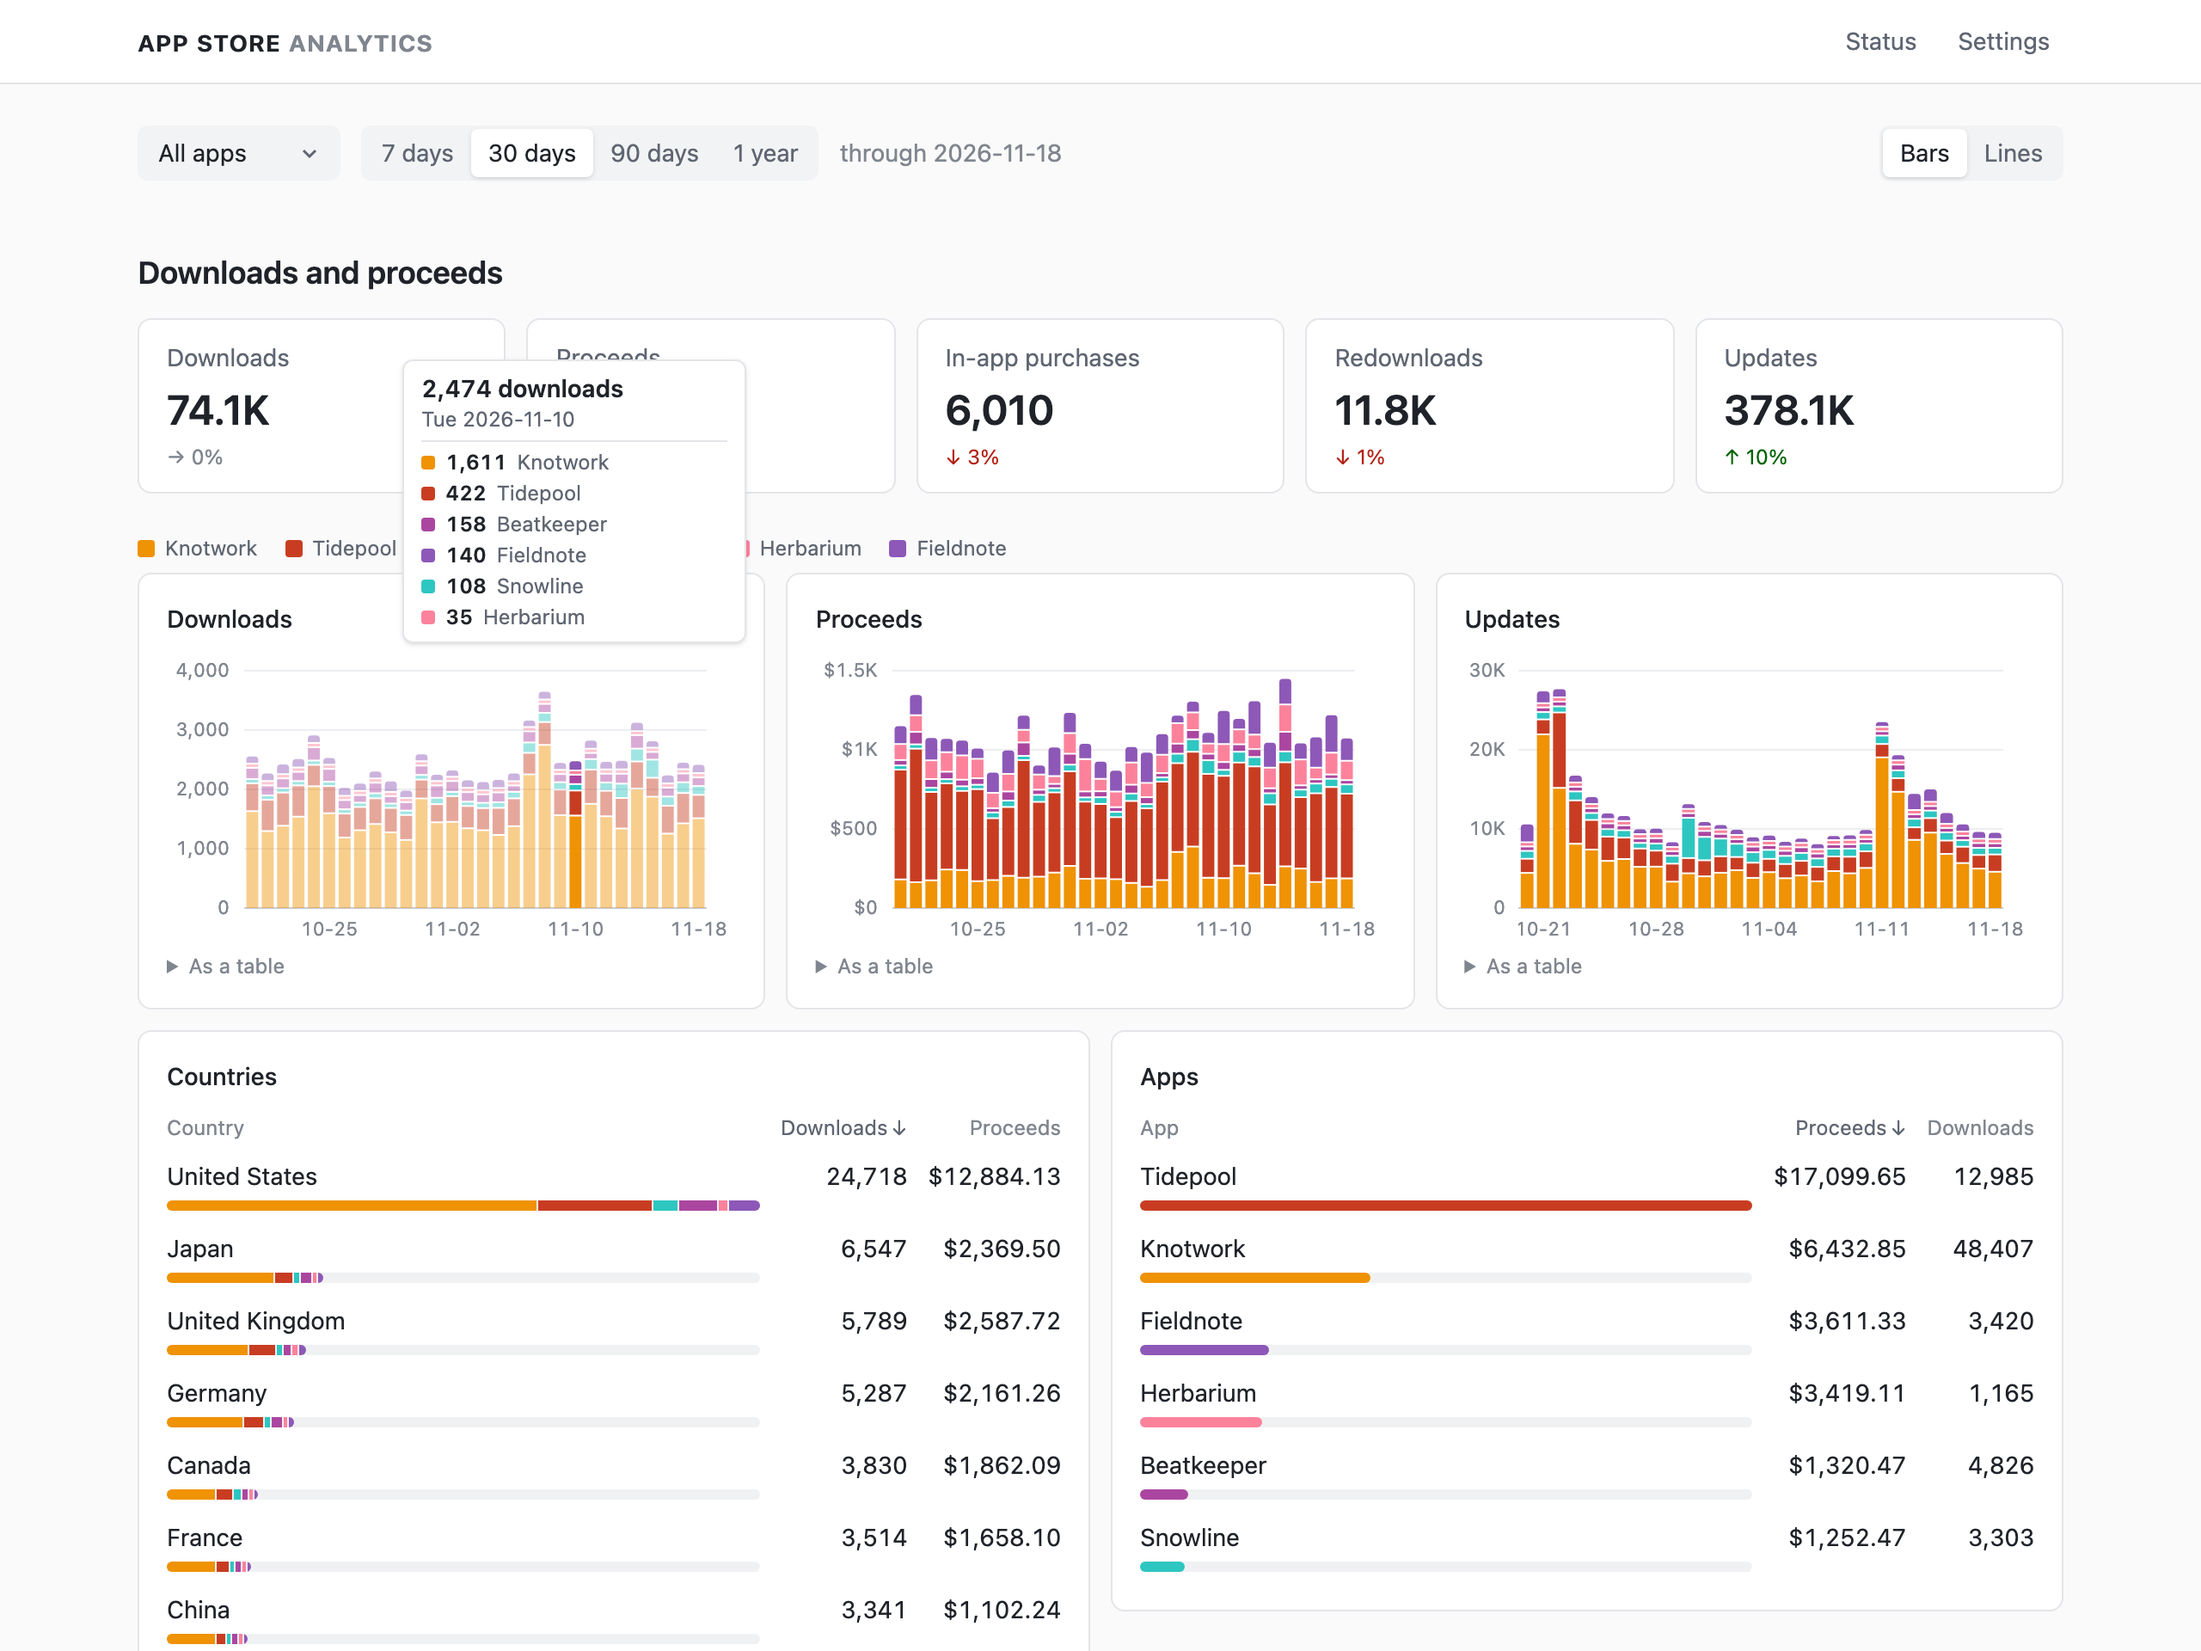
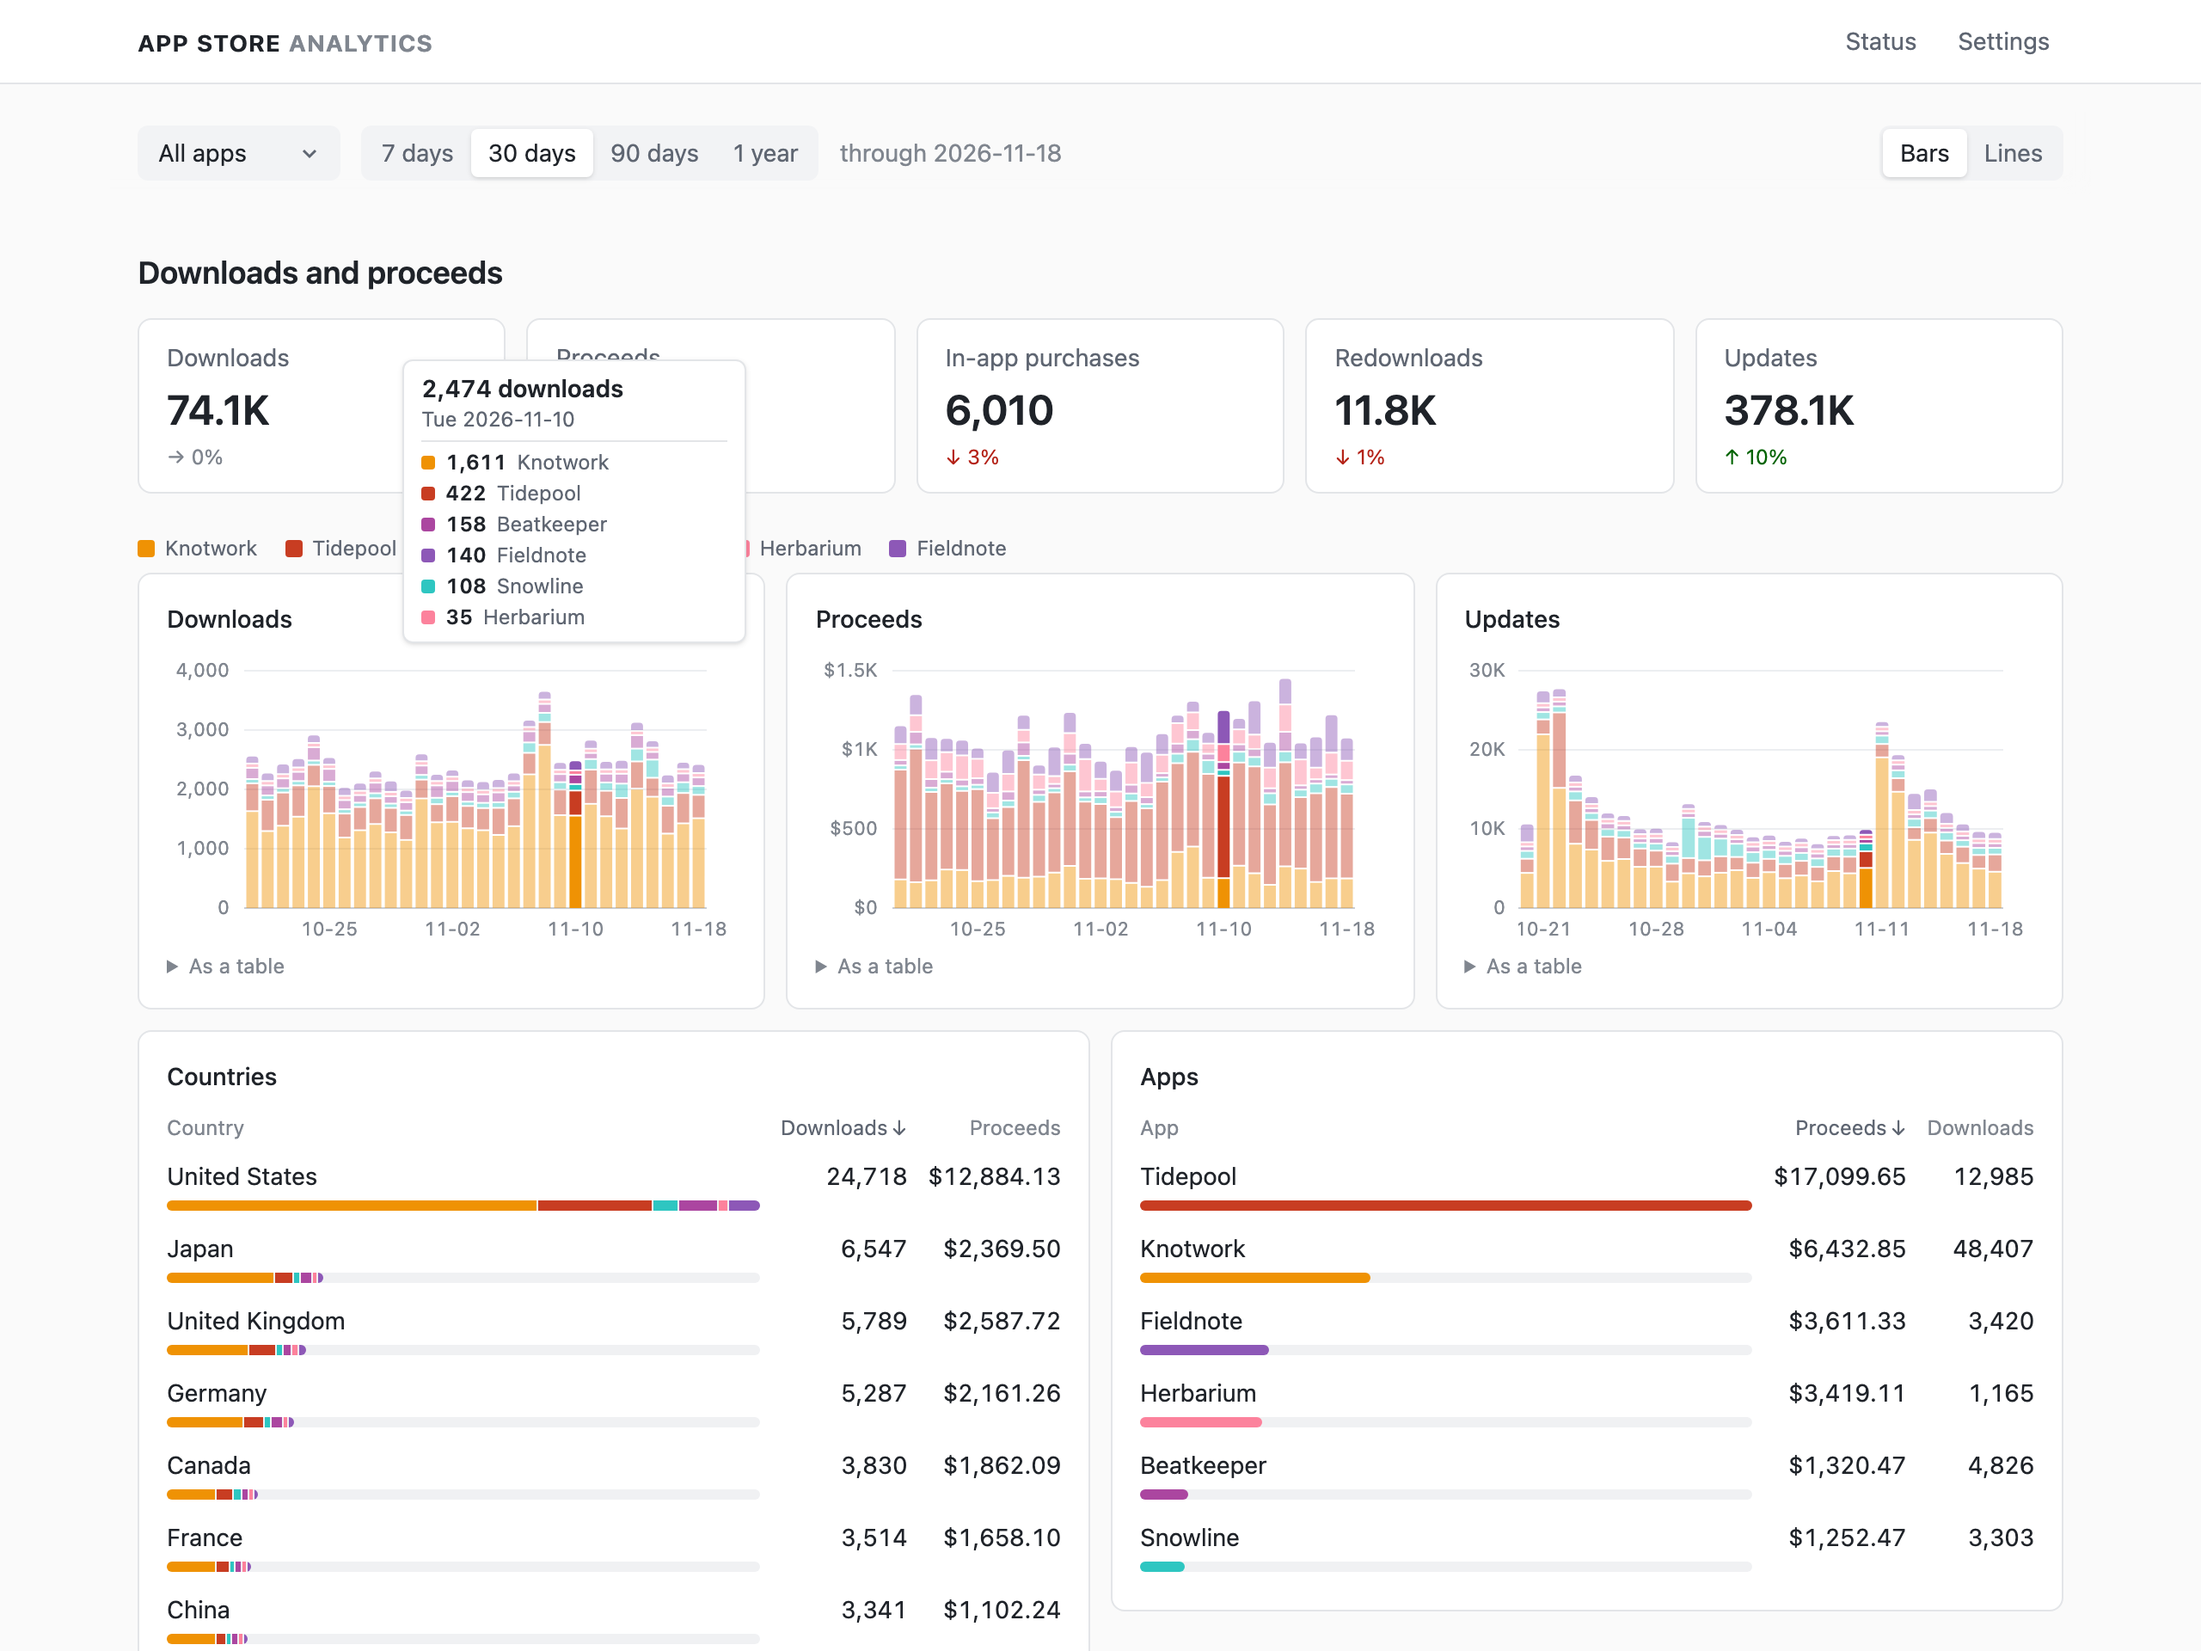
The day picked on one chart is lit on every chart of the page, the readout staying where it was picked

Changed region(s): [[0.4062, 0.4062, 0.625, 0.5625], [0.6875, 0.4062, 0.9062, 0.5625]]

diff --git a/web/src/charts/TimeGraph.tsx b/web/src/charts/TimeGraph.tsx
@@ -21,6 +21,9 @@ export type Standing = { latest: string; slots: number; back: number };
  * a tap or a key.
  *
  * And where they stand: scrolling one back through the days scrolls the rest to the same days.
+ *
+ * And the day picked: the others light the same day, without a readout of their own, so a day is
+ * read across the page at once.
  */
 type TimeGraph = {
   layer: HTMLElement | null;
@@ -38,6 +41,16 @@ type TimeGraph = {
   standing: (latest: string, slots: number) => number | null;
   /** Goes where the others are scrolled to, until the function it returns is called. */
   follow: (chart: symbol, go: (at: Standing) => void) => () => void;
+  /**
+   * The day a chart picked, or none. A chart that had none picked letting go says nothing: the
+   * day is the last chart's to pick one, which the first lets go as it takes the readout.
+   */
+  light: (chart: symbol, day: string | null) => void;
+  /**
+   * Hears the day another chart picked, or none, until the function it returns is called: told
+   * at once of one picked already.
+   */
+  lit: (chart: symbol, hear: (day: string | null) => void) => () => void;
 };
 
 const TimeGraphContext = createContext<TimeGraph | null>(null);
@@ -49,6 +62,8 @@ export function TimeGraphProvider({ children }: { children: ReactNode }) {
   const followers = useRef(new Map<symbol, (at: Standing) => void>());
   const stood = useRef<{ chart: symbol; at: Standing } | null>(null);
   const frame = useRef(0);
+  const lighting = useRef<{ chart: symbol; day: string } | null>(null);
+  const hearers = useRef(new Map<symbol, (day: string | null) => void>());
   const graph = useMemo<TimeGraph>(
     () => ({
       layer,
@@ -83,6 +98,28 @@ export function TimeGraphProvider({ children }: { children: ReactNode }) {
         followers.current.set(chart, go);
         return () => {
           followers.current.delete(chart);
+        };
+      },
+      light(chart, day) {
+        const now = lighting.current;
+        if (day === null) {
+          if (now?.chart !== chart) return;
+          lighting.current = null;
+        } else {
+          if (now?.chart === chart && now.day === day) return;
+          lighting.current = { chart, day };
+        }
+        // The chart that picked it has its own readout of it.
+        for (const [other, hear] of hearers.current) {
+          hear(other === chart ? null : day);
+        }
+      },
+      lit(chart, hear) {
+        hearers.current.set(chart, hear);
+        const now = lighting.current;
+        if (now && now.chart !== chart) hear(now.day);
+        return () => {
+          hearers.current.delete(chart);
         };
       },
     }),

diff --git a/web/src/charts/TimeChart.tsx b/web/src/charts/TimeChart.tsx
@@ -348,6 +348,17 @@ export function TimeChart({
     else graph.release(self);
   }, [graph, picked, self]);
   useEffect(() => () => graph.release(self), [graph, self]);
+
+  // The day picked here is lit on the page's other charts, and the day picked on another is lit
+  // here: the same day dims the rest everywhere, with the readout only where it was picked.
+  const [echo, setEcho] = useState<string | null>(null);
+  useEffect(() => graph.lit(self, setEcho), [graph, self]);
+  const pickedDay = at === null ? null : days[at]!;
+  useEffect(() => graph.light(self, pickedDay), [graph, self, pickedDay]);
+  useEffect(() => () => graph.light(self, null), [graph, self]);
+  const echoed = echo === null ? -1 : days.indexOf(echo);
+  const lit = at ?? (echoed < 0 ? null : echoed);
+
   const tip = useRef<HTMLDivElement>(null);
   const [place, setPlace] = useState<{ left: number; top: number } | null>(
     null,
@@ -489,7 +500,7 @@ export function TimeChart({
                   <g
                     key={days[i]}
                     className="transition-opacity"
-                    opacity={at === null || at === i ? 1 : 0.45}
+                    opacity={lit === null || lit === i ? 1 : 0.45}
                   >
                     {stack(drawn, i, y).map((part) => (
                       <path
@@ -502,10 +513,10 @@ export function TimeChart({
                 ))
               ) : (
                 <>
-                  {at !== null ? (
+                  {lit !== null ? (
                     <line
-                      x1={x(at)}
-                      x2={x(at)}
+                      x1={x(lit)}
+                      x2={x(lit)}
                       y1={top}
                       y2={top + plotH}
                       className="stroke-axis"
@@ -524,13 +535,13 @@ export function TimeChart({
                       style={{ stroke: s.color }}
                     />
                   ))}
-                  {at !== null
+                  {lit !== null
                     ? drawn.map((s) =>
-                        s.values[at] === undefined ? null : (
+                        s.values[lit] === undefined ? null : (
                           <circle
                             key={s.id}
-                            cx={x(at)}
-                            cy={y(s.values[at]!)}
+                            cx={x(lit)}
+                            cy={y(s.values[lit]!)}
                             r={4}
                             strokeWidth={2}
                             className="stroke-bg"

diff --git a/web/src/charts/TimeChart.test.tsx b/web/src/charts/TimeChart.test.tsx
@@ -44,6 +44,49 @@ describe("TimeChart", () => {
   });
 
   /**
+   * The day picked on one chart is lit on the others, the rest of their days dimmed, with the
+   * readout only where it was picked; and let go everywhere once the pointer leaves.
+   */
+  it("lights the day picked on one chart on the others", () => {
+    mount(
+      <>
+        <TimeChart
+          label="Downloads"
+          days={days}
+          values={[1, 2]}
+          format={(n) => `${n} downloads`}
+          axis={String}
+        />
+        <TimeChart
+          label="Updates"
+          days={days}
+          values={[10, 20]}
+          format={(n) => `${n} updates`}
+          axis={String}
+        />
+      </>,
+    );
+    const downloads = screen.getByRole("group", { name: /^Downloads/ });
+    const updates = screen.getByRole("group", { name: /^Updates/ });
+    const columns = () =>
+      [...downloads.querySelectorAll("g.transition-opacity")].map((g) =>
+        g.getAttribute("opacity"),
+      );
+    expect(columns()).toEqual(["1", "1"]);
+
+    const hit = updates.querySelector('rect[fill="transparent"]')!;
+    fireEvent.pointerMove(hit, { pointerType: "mouse", clientX: 10 });
+    // One day lit, the one the readout on Updates says, and no readout on Downloads.
+    const lit = columns().indexOf("1");
+    expect(columns().filter((o) => o === "1")).toHaveLength(1);
+    expect(updates.textContent).toContain(`${days[lit]}: `);
+    expect(screen.queryByText(/^\d+ downloads$/)).toBeNull();
+
+    fireEvent.pointerLeave(hit, { pointerType: "mouse" });
+    expect(columns()).toEqual(["1", "1"]);
+  });
+
+  /**
    * A finger put on a chart to scroll the page is not a tap: nothing is picked when the browser
    * takes the press for a scroll, nor by the chart taking focus from it. A tap picks its day.
    */

diff --git a/web/src/charts/TimeGraph.test.tsx b/web/src/charts/TimeGraph.test.tsx
@@ -78,3 +78,48 @@ describe("the page's charts scrolled as one", () => {
     expect(graph.standing("2026-11-15", 30)).toBeNull();
   });
 });
+
+describe("the day picked, lit on every chart", () => {
+  it("tells the others the day a chart picked, and the chart itself none", () => {
+    const graph = graphOf();
+    const a = Symbol("a");
+    const b = Symbol("b");
+    const atA = vi.fn();
+    const atB = vi.fn();
+    graph.lit(a, atA);
+    graph.lit(b, atB);
+
+    graph.light(a, "2026-11-14");
+    expect(atB).toHaveBeenLastCalledWith("2026-11-14");
+    expect(atA).toHaveBeenLastCalledWith(null);
+
+    graph.light(a, null);
+    expect(atB).toHaveBeenLastCalledWith(null);
+  });
+
+  it("keeps the last chart's day when the one before lets its own go", () => {
+    const graph = graphOf();
+    const a = Symbol("a");
+    const b = Symbol("b");
+    const atA = vi.fn();
+    graph.lit(a, atA);
+
+    graph.light(a, "2026-11-14");
+    graph.light(b, "2026-11-15");
+    // a lets go as b takes the readout, after b has picked.
+    graph.light(a, null);
+    expect(atA).toHaveBeenLastCalledWith("2026-11-15");
+  });
+
+  it("tells a chart arriving the day already picked, and stops telling one that went", () => {
+    const graph = graphOf();
+    const a = Symbol("a");
+    graph.light(a, "2026-11-14");
+    const atB = vi.fn();
+    const stop = graph.lit(Symbol("b"), atB);
+    expect(atB).toHaveBeenCalledWith("2026-11-14");
+    stop();
+    graph.light(a, "2026-11-15");
+    expect(atB).toHaveBeenCalledTimes(1);
+  });
+});
